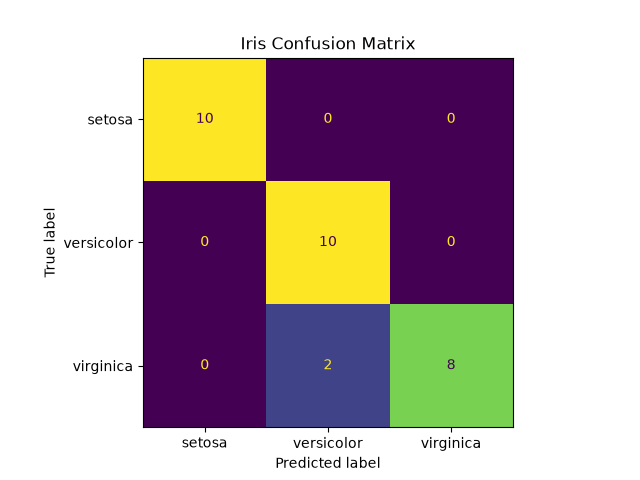
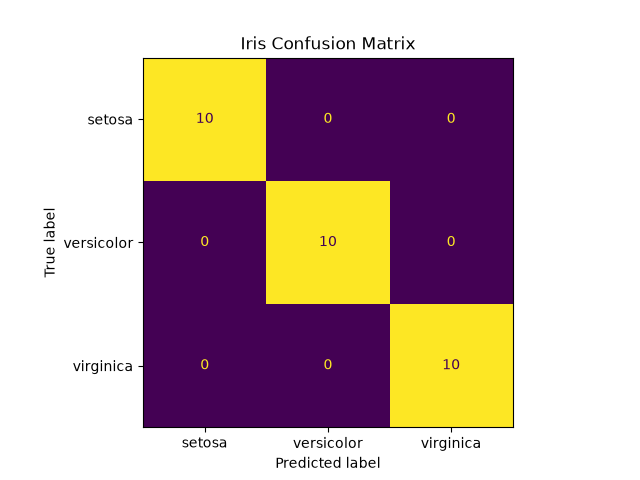
More progress with assignment 3

Changed region(s): [[0.4062, 0.625, 0.8125, 0.9062]]

diff --git a/assignments_03/warmup_03.py b/assignments_03/warmup_03.py
@@ -14,6 +14,7 @@ from sklearn.metrics import (
     confusion_matrix,
     ConfusionMatrixDisplay
 )
+from sklearn.multiclass import OneVsRestClassifier
 
 iris = load_iris(as_frame=True)
 X = iris.data
@@ -58,10 +59,10 @@ print(classification_report(y_test, preds))
 knn2 = KNeighborsClassifier(n_neighbors=5)
 knn2.fit(X_train_scaled, y_train)
 
-preds = knn2.predict(X_test_scaled)
+preds_2 = knn2.predict(X_test_scaled)
 
-print("Accuracy: ", accuracy_score(y_test, preds))
-print(classification_report(y_test, preds))
+print("Accuracy: ", accuracy_score(y_test, preds_2))
+print(classification_report(y_test, preds_2))
 
 # Scaling hurts the performance. The units of this data all fall within a similar range and are already comprable. Scaling 
 # the data can minimize the natural separation.
@@ -102,6 +103,7 @@ disp = ConfusionMatrixDisplay(confusion_matrix=cm, display_labels=iris.target_na
 disp.plot(colorbar=False)
 plt.title('Iris Confusion Matrix')
 plt.savefig('outputs/knn_confusion_matrix.png')
+plt.clf()
 
 # The pair of species the model most often confuses are versicolor and virginica
 
@@ -109,13 +111,44 @@ plt.savefig('outputs/knn_confusion_matrix.png')
 
 # Q1
 
+dt = DecisionTreeClassifier(max_depth=3, random_state=42)
+dt.fit(X_train, y_train)
+y_dt_preds = dt.predict(X_test)
 
+print("Accuracy: ", accuracy_score(y_test, y_dt_preds))
+print(classification_report(y_test, y_dt_preds))
+
+# The accuracy of the Decision Tree is a little worse than the KNN unscaled. It sits about halfway between the scaled and 
+# non-scaled KNN figures.
+
+# Given that Decision Trees don't rely on distance calculations, the scaled vs. unscaled data does not affect the result.
 
 # --- Logistic Regression and Regularization ---
 
 # Q1
 
+log_reg_small = OneVsRestClassifier(LogisticRegression(C=0.01, max_iter=1000, solver="liblinear"))
+log_reg_med = OneVsRestClassifier(LogisticRegression(C=1.0, max_iter=1000, solver="liblinear"))
+log_reg_large = OneVsRestClassifier(LogisticRegression(C=100, max_iter=1000, solver="liblinear"))
 
+log_reg_small.fit(X_train_scaled, y_train)
+log_reg_med.fit(X_train_scaled, y_train)
+log_reg_large.fit(X_train_scaled, y_train)
+
+def find_sum_coefficients(log):
+    sum = 0
+    for l in log.estimators_:
+        sum += np.abs(l.coef_).sum()
+    return sum
+
+print("C = .01 coefficient sum: ", find_sum_coefficients(log_reg_small))
+print("C = 1.0 coefficient sum: ", find_sum_coefficients(log_reg_med))
+print("C = 100 coefficient sum: ", find_sum_coefficients(log_reg_large))
+
+# As the value of C increases the total coefficient magnitude also increases. The lower C does not even break a total 
+# coefficient sum of two, while the others are closer to 12.5 and 38 respectively. This tells me that with the correctly 
+# balanced C, regularization is keeping the coefficients in check by not allowing any factor(s) from having a more weighted 
+# affect on the model.
 
 # --- PCA ---
 
@@ -126,16 +159,66 @@ images   = digits.images  # same data shaped as 8x8 images for plotting
 
 # Q1
 
+print(X_digits.shape)
+print(images.shape)
 
+for i in range(10):
+    plt.subplot(1, 10, i+1)
+    plt.imshow(images[i], cmap='gray_r');
+    plt.axis('off');
+    plt.title(i)
+plt.savefig('outputs/sample_digits.png')
+plt.clf()
 
 # Q2
 
+pca = PCA()
+pca.fit(X_digits)
+scores = pca.transform(X_digits)
+print(scores.shape)
+scatter = plt.scatter(scores[:, 0], scores[:, 1], c=y_digits, cmap='tab10', s=10)  # c = color array
+plt.colorbar(scatter, label='Digit')
+plt.savefig('outputs/pca_2d_projection.png')
+plt.clf()
 
+# Yes, it does appear that the same-digit images tend to cluster together in this 2D space.
 
 # Q3
 
+variance_vs_numcomp = np.cumsum(pca.explained_variance_ratio_)
 
+plt.plot(variance_vs_numcomp, range(len(variance_vs_numcomp)))
+plt.savefig('outputs/pca_variance_explained.png')
+plt.clf()
+
+# Approximately 13 components are needed to explain 80% of the variance.
 
 # Q4
 
 
+def reconstruct_digit(sample_idx, scores, pca, n_components):
+    """Reconstruct one digit using the first n_components principal components."""
+    reconstruction = pca.mean_.copy()
+    for i in range(n_components):
+        reconstruction = reconstruction + scores[sample_idx, i] * pca.components_[i]
+    return reconstruction.reshape(8, 8)
+
+
+n_components = [2, 5, 15, 40]
+fig, axes = plt.subplots(5, 5)
+
+for x in range(5):
+    # Original
+    ax = axes[0, x]
+    ax.imshow(images[x], cmap='gray_r')
+    ax.axis('off')
+    for n in range(len(n_components)):
+        reconstruct = reconstruct_digit(x, scores, pca, n_components[n])
+        ax = axes[n+1, x]
+        ax.imshow(reconstruct, cmap='gray_r')
+        ax.axis('off')
+
+plt.tight_layout()
+plt.savefig('outputs/pca_reconstructions.png')
+
+# The digits become clearly visible at n=40. This appears to be close to the point where the variance curve levels off.

diff --git a/assignments_03/project_03.py b/assignments_03/project_03.py
@@ -1,0 +1,92 @@
+import warnings
+import numpy as np
+import pandas as pd
+import matplotlib.pyplot as plt
+import requests
+from io import BytesIO
+
+from sklearn.linear_model import LogisticRegression
+from sklearn.preprocessing import StandardScaler
+from sklearn.model_selection import train_test_split, cross_val_score
+from sklearn.metrics import (
+    confusion_matrix,
+    accuracy_score,
+    precision_score,
+    recall_score,
+    f1_score,
+    classification_report
+)
+from sklearn.inspection import DecisionBoundaryDisplay
+
+warnings.filterwarnings("ignore", category=RuntimeWarning)
+
+COLUMN_NAMES = [
+    "word_freq_make",        # 0   percent of words that are "make"
+    "word_freq_address",     # 1
+    "word_freq_all",         # 2
+    "word_freq_3d",          # 3   almost never appears
+    "word_freq_our",         # 4
+    "word_freq_over",        # 5
+    "word_freq_remove",      # 6   common in "remove me from this list"
+    "word_freq_internet",    # 7
+    "word_freq_order",       # 8
+    "word_freq_mail",        # 9
+    "word_freq_receive",     # 10
+    "word_freq_will",        # 11
+    "word_freq_people",      # 12
+    "word_freq_report",      # 13
+    "word_freq_addresses",   # 14
+    "word_freq_free",        # 15  classic spam word
+    "word_freq_business",    # 16
+    "word_freq_email",       # 17
+    "word_freq_you",         # 18
+    "word_freq_credit",      # 19
+    "word_freq_your",        # 20  often high in spam
+    "word_freq_font",        # 21  HTML emails
+    "word_freq_000",         # 22  "win $ x,000" style offers
+    "word_freq_money",       # 23  money related
+    "word_freq_hp",          # 24  HP specific
+    "word_freq_hpl",         # 25
+    "word_freq_george",      # 26  specific HP person
+    "word_freq_650",         # 27  area code
+    "word_freq_lab",         # 28
+    "word_freq_labs",        # 29
+    "word_freq_telnet",      # 30
+    "word_freq_857",         # 31
+    "word_freq_data",        # 32
+    "word_freq_415",         # 33
+    "word_freq_85",          # 34
+    "word_freq_technology",  # 35
+    "word_freq_1999",        # 36
+    "word_freq_parts",       # 37
+    "word_freq_pm",          # 38
+    "word_freq_direct",      # 39
+    "word_freq_cs",          # 40
+    "word_freq_meeting",     # 41
+    "word_freq_original",    # 42
+    "word_freq_project",     # 43
+    "word_freq_re",          # 44  reply threads
+    "word_freq_edu",         # 45
+    "word_freq_table",       # 46
+    "word_freq_conference",  # 47
+    "char_freq_;",           # 48  frequency of ';'
+    "char_freq_(",           # 49  frequency of '('
+    "char_freq_[",           # 50  frequency of '['
+    "char_freq_!",           # 51  exclamation marks (often big)
+    "char_freq_$",           # 52  dollar sign (money related)
+    "char_freq_#",           # 53  hash character
+    "capital_run_length_average",  # 54  average length of capital letter runs
+    "capital_run_length_longest",  # 55  longest capital run
+    "capital_run_length_total",    # 56  total number of capital letters
+    "spam_label"                    # 57  1 = spam, 0 = not spam
+]
+
+url = "https://archive.ics.uci.edu/ml/machine-learning-databases/spambase/spambase.data"
+response = requests.get(url)
+response.raise_for_status()
+
+df = pd.read_csv(BytesIO(response.content), header=None)
+df.columns = COLUMN_NAMES
+df.info()
+spam_mails = df['spam_label'].apply(lambda x: x if x == 1 else np.nan).dropna()
+print(spam_mails.count())

diff --git a/assignments_02/warmup_02.py b/assignments_02/warmup_02.py
@@ -125,7 +125,7 @@ plt.plot(y_full_predicted, y_full_predicted, color='red')
 plt.title("Predicted vs Actual")
 plt.xlabel("Predicted Cost")
 plt.ylabel("Actual Cost")
-plt.savefig('outputs/predicted_vs_actual.png', dpi=300)
+plt.savefig('outputs/predicted_vs_actual_cost.png', dpi=300)
 plt.close()
 
 # The dots above the diagonal are when the model underpredicted the costs as related to age and smoking. The dots below 
